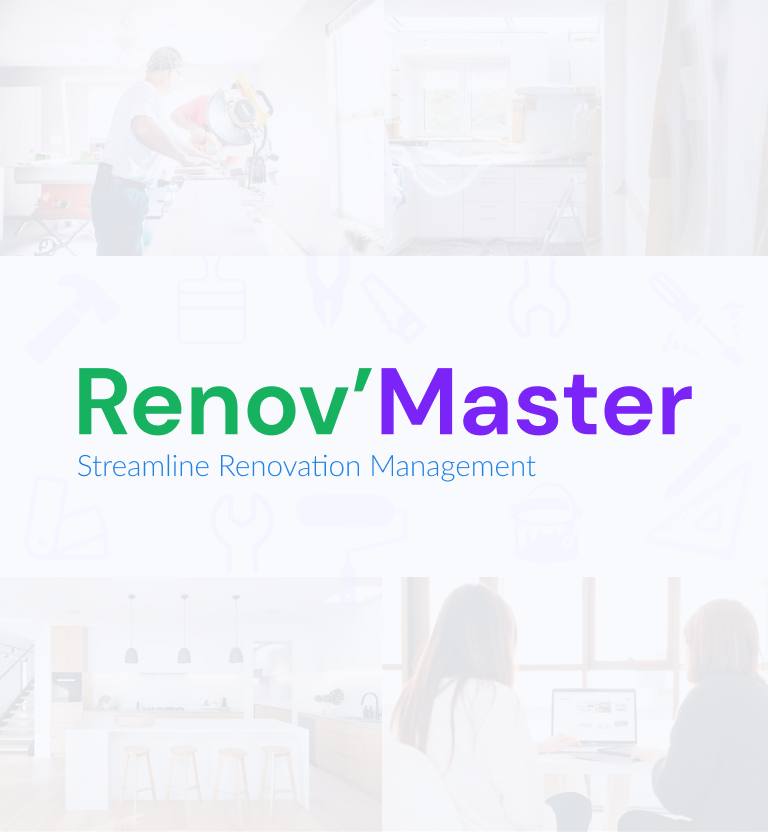
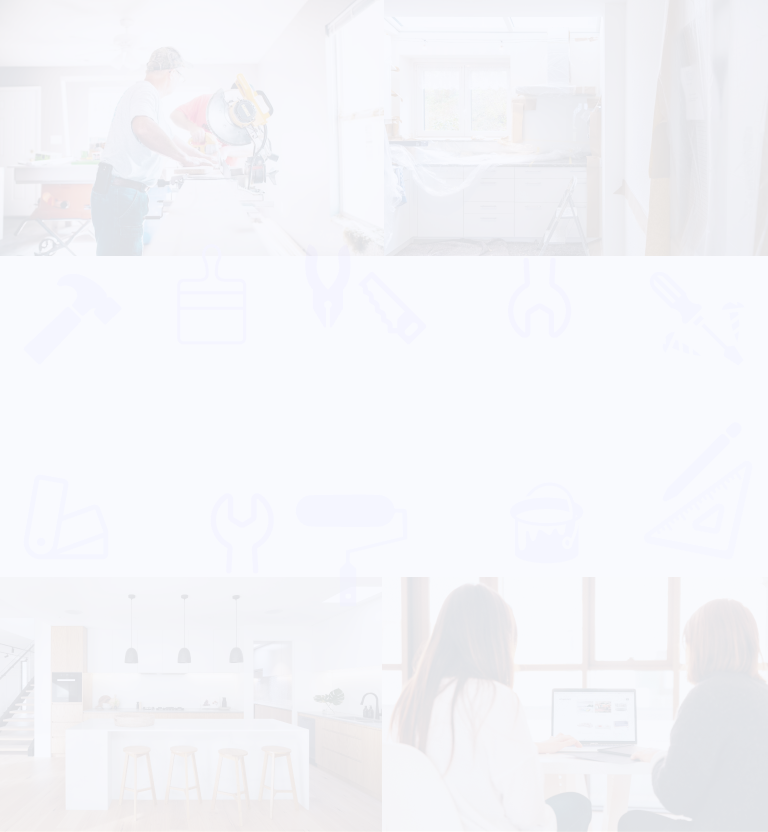
modified background image and image path, added nav partial

Changed region(s): [[0.0938, 0.4375, 0.9062, 0.5938], [0.375, 0.5625, 0.4062, 0.5938], [0.1562, 0.5625, 0.1875, 0.5938]]

diff --git a/routes/projects.routes.js b/routes/projects.routes.js
@@ -3,20 +3,18 @@ const router = require("express").Router();
 const User = require("../models/User.model.js");
 const Project = require("../models/Project.model.js");
 
-
 router.get("/", (req, res, next) => {
-  console.log(req.session.currentUser.projects)
+  console.log(req.session.currentUser && req.session.currentUser.projects);
   if (req.session.currentUser) {
-    res.render('projects', {userInSession : req.session.currentUser.projects})
-    }
-  else {
+    res.render("projects", { userInSession: req.session.currentUser.projects });
+  } else {
     res.redirect("/login");
   }
 });
 
 router.get("/new", (req, res, next) => {
-  res.render('newproject')
-  console.log(req.session.currentUser._id)
+  res.render("newproject");
+  console.log(req.session.currentUser._id);
 });
 
 router.post("/new", (req, res, next) => {
@@ -24,31 +22,34 @@ router.post("/new", (req, res, next) => {
     userId: req.session.currentUser._id,
     FirstName: req.body.FirstName,
     LastName: req.body.LastName,
-    Address : req.body.Address,
-    PhoneNb : req.body.PhoneNb,
-    Email : req.body.Email,
-    firstMeetingDate : req.body.firstMeetingDate,
-    firstMeetingAddress : req.body.firstMeetingAddress,
-    projectDescription : req.body.projectDescription,
-    projectDeadline : req.body.projectDeadline
-  }
+    Address: req.body.Address,
+    PhoneNb: req.body.PhoneNb,
+    Email: req.body.Email,
+    firstMeetingDate: req.body.firstMeetingDate,
+    firstMeetingAddress: req.body.firstMeetingAddress,
+    projectDescription: req.body.projectDescription,
+    projectDeadline: req.body.projectDeadline,
+  };
 
   Project.create(projectInfo)
-      .then((projectFromDB) => {
-        console.log(projectFromDB._id);
-        res.redirect(`/projects/${projectFromDB._id}`) /*juste un test parce que je ne sais pas encore comment res.redirect vers mon project:id*/
-      })
-      .catch((error) => next(error));
+    .then((projectFromDB) => {
+      console.log(projectFromDB._id);
+      res.redirect(
+        `/projects/${projectFromDB._id}`
+      ); /*juste un test parce que je ne sais pas encore comment res.redirect vers mon project:id*/
+    })
+    .catch((error) => next(error));
 });
 
 router.get("/:id", async (req, res, next) => {
   const projectId = req.params._id;
   try {
-    projectDetails = await Project.findById(projectId)
-    console.log(projectDetails)
-    res.render('project-details',projectDetails)
+    projectDetails = await Project.findById(projectId);
+    console.log(projectDetails);
+    res.render("project-details", projectDetails);
+  } catch (error) {
+    console.log("an error happened"), error;
   }
-  catch(error) {console.log("an error happened"),error}
 });
 
 module.exports = router;

diff --git a/config/index.js b/config/index.js
@@ -1,5 +1,6 @@
 // We reuse this import in order to have access to the `body` property in requests
 const express = require("express");
+const hbs = require("hbs");
 
 // ℹ Responsible for the messages you see in the terminal as requests are coming in
 // https://www.npmjs.com/package/morgan
@@ -31,9 +32,12 @@ module.exports = (app) => {
   app.set("views", path.join(__dirname, "..", "views"));
   // Sets the view engine to handlebars
   app.set("view engine", "hbs");
+  hbs.registerPartials(path.join(__dirname, "..", "views", "partials"));
   // Handles access to the public folder
   app.use(express.static(path.join(__dirname, "..", "public")));
 
   // Handles access to the favicon
-  app.use(favicon(path.join(__dirname, "..", "public", "images", "favicon.ico")));
+  app.use(
+    favicon(path.join(__dirname, "..", "public", "images", "favicon.ico"))
+  );
 };

diff --git a/public/stylesheets/style.css b/public/stylesheets/style.css
@@ -1,5 +1,6 @@
 body {
   background-color: #fafafe;
+  margin: 0;
 }
 
 a {
@@ -36,7 +37,8 @@ form {
   height: 100vh;
   display: flex;
   flex-direction: column;
-  background-image: url("/public/images/desktopHomepageBackground.png");
+  background-image: url("../images/desktopHomepageBackground.png");
+  background-size: cover;
   padding: 0;
   background-color: white;
 }
@@ -437,7 +439,7 @@ form {
   width: 24px;
   height: 24px;
 
-  background: #2081e4;
+  color: #2081e4;
 }
 
 #deleteProfileLink {
@@ -448,7 +450,7 @@ form {
   width: 24px;
   height: 24px;
 
-  background: #fc1d20;
+  color: #fc1d20;
 }
 
 /* 

diff --git a/app.js b/app.js
@@ -22,7 +22,8 @@ require("./config/session.config")(app);
 
 // default value for title local
 const projectName = "renovation-master";
-const capitalized = (string) => string[0].toUpperCase() + string.slice(1).toLowerCase();
+const capitalized = (string) =>
+  string[0].toUpperCase() + string.slice(1).toLowerCase();
 
 app.locals.title = `${capitalized(projectName)}- Generated with Ironlauncher`;
 
